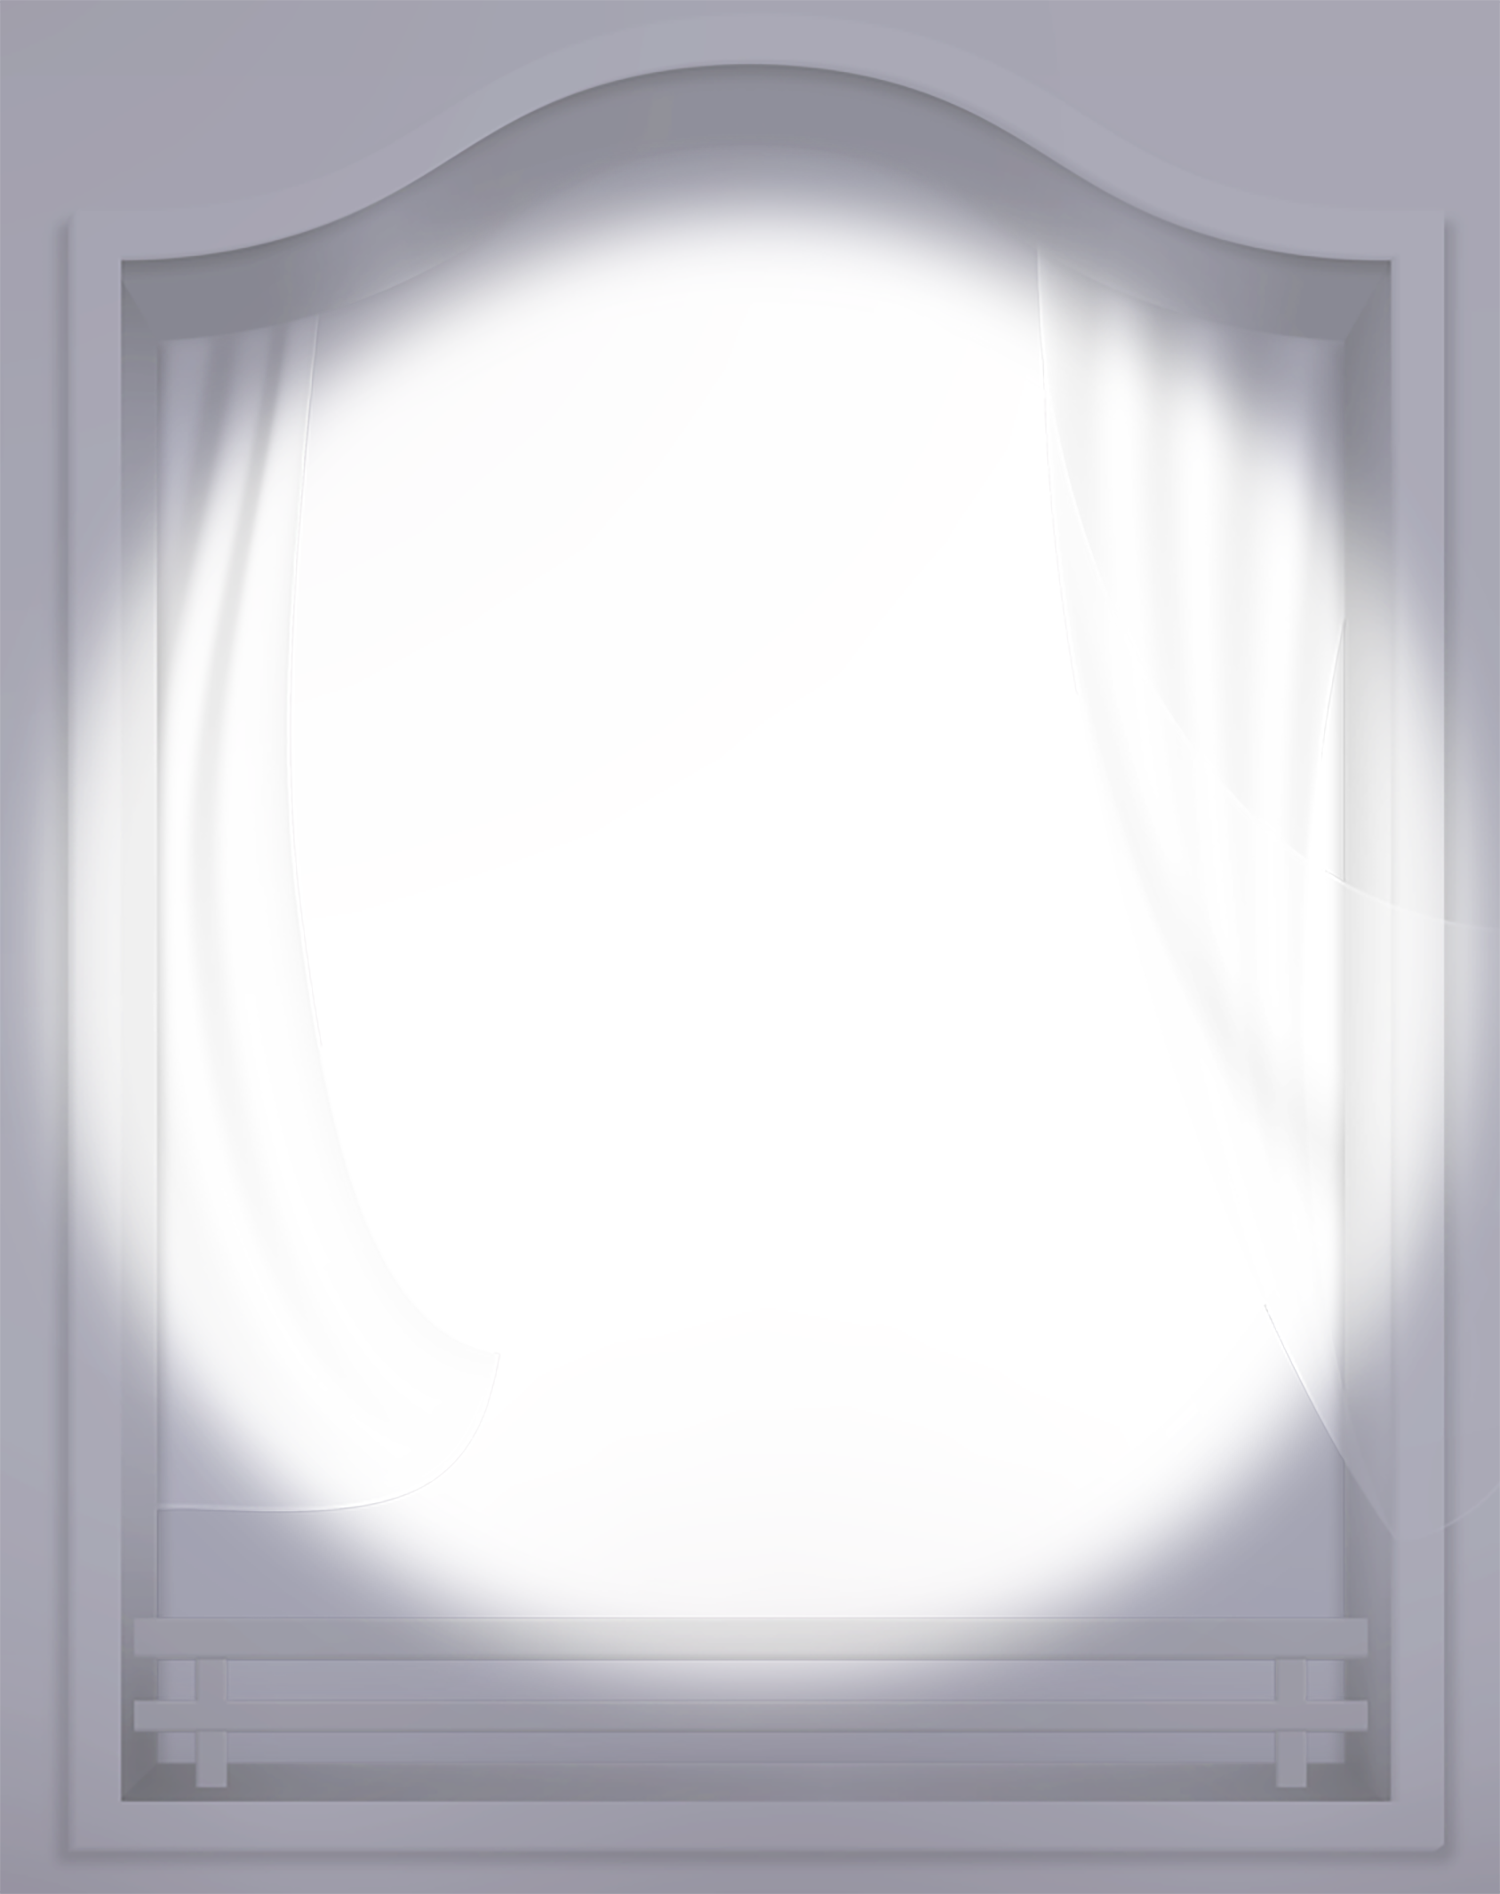
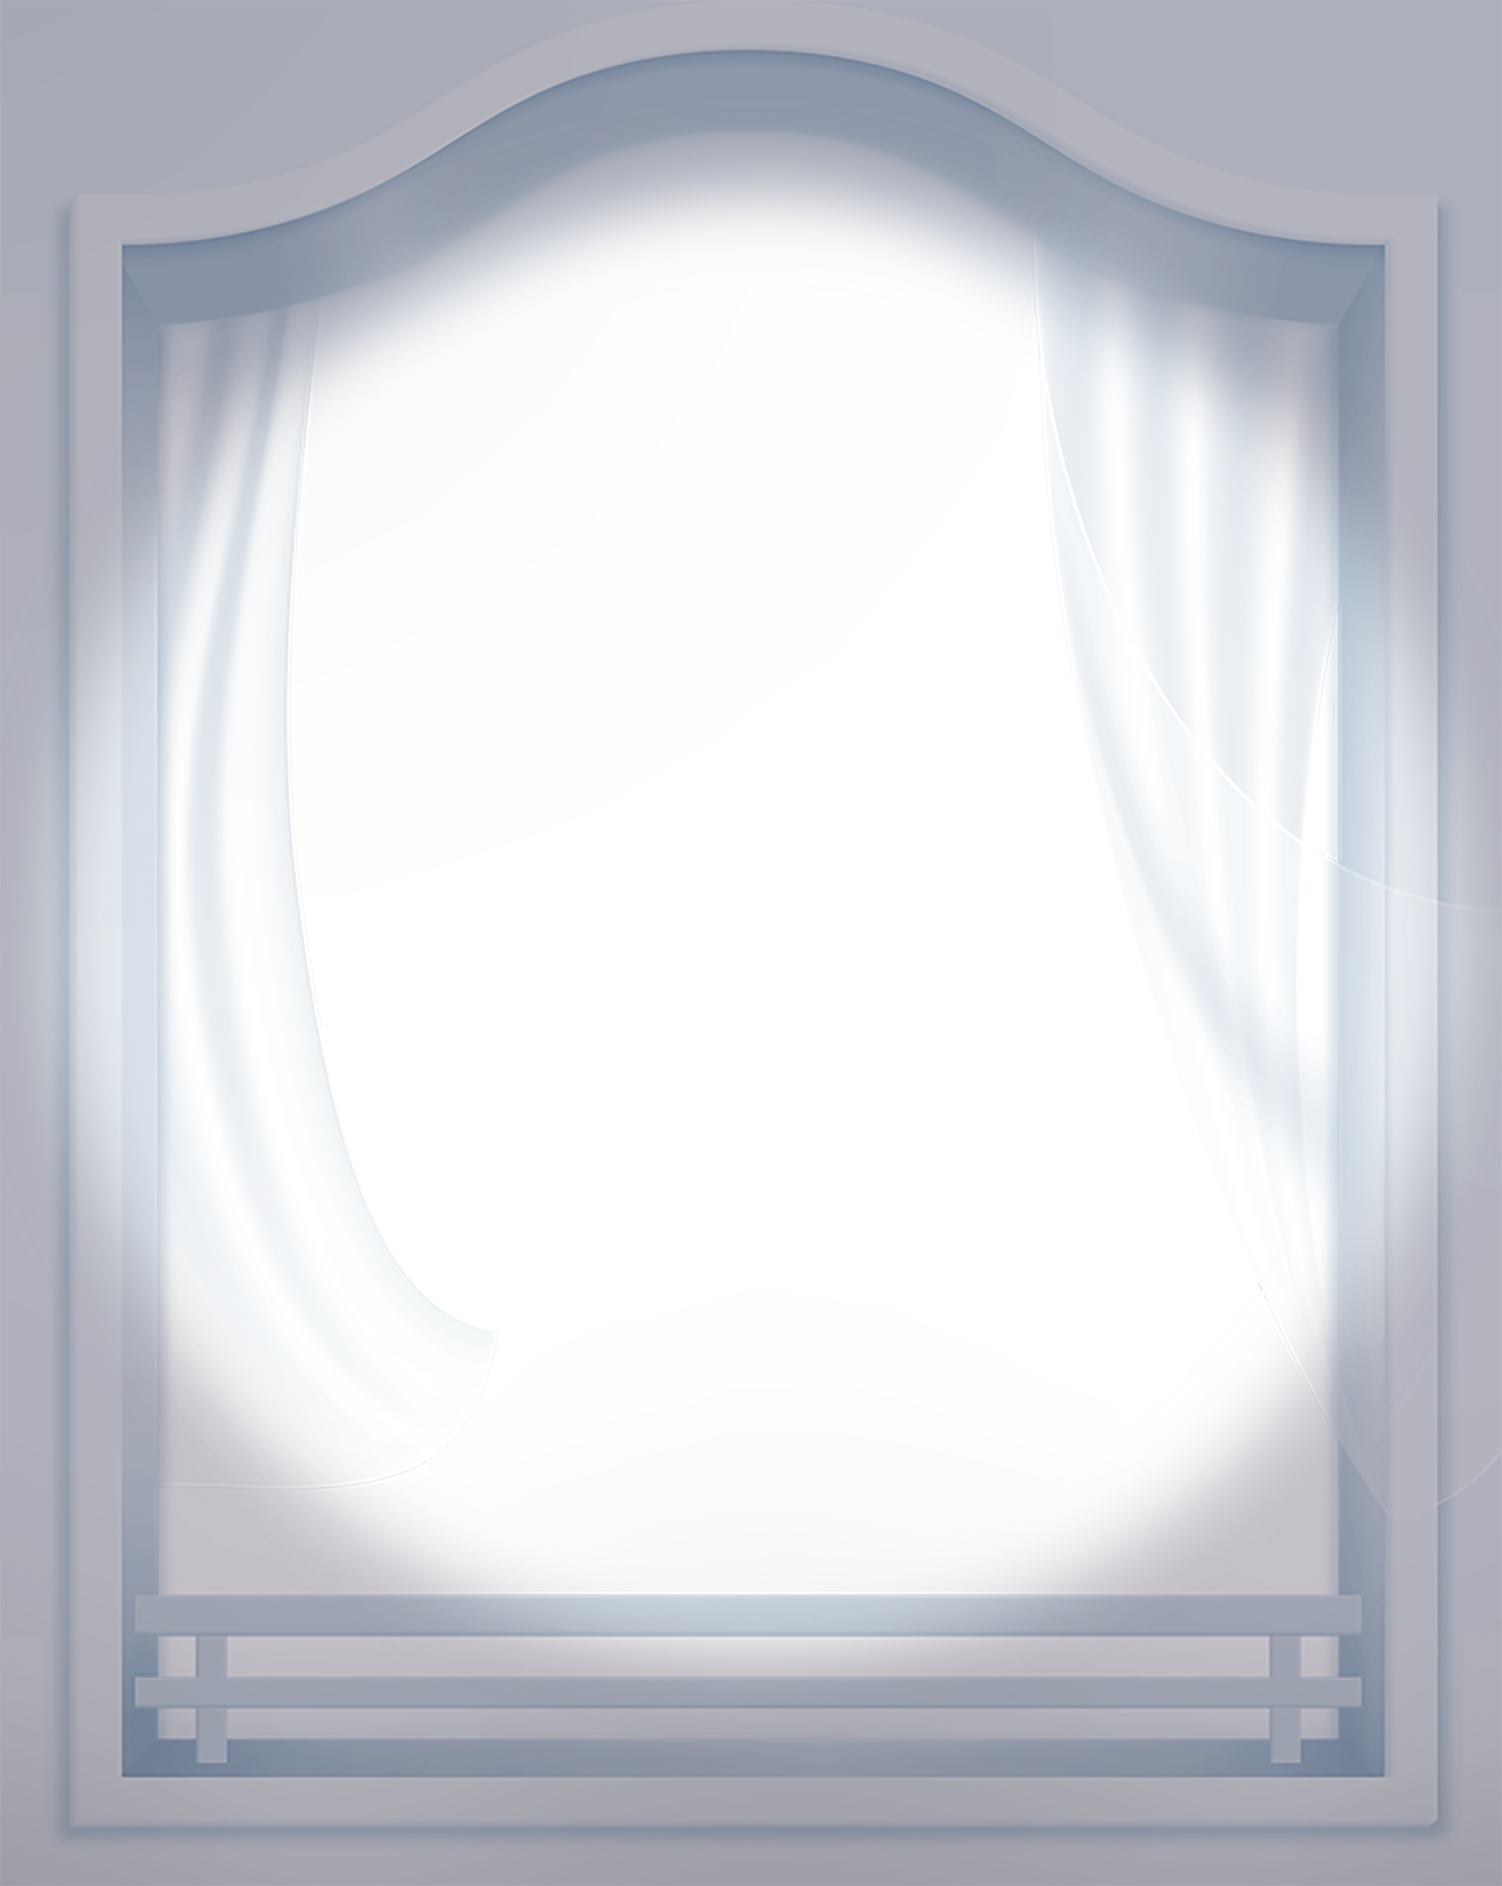
样式

diff --git a/src/pages/Home/components/create/index.js b/src/pages/Home/components/create/index.js
@@ -1,16 +1,44 @@
-import React from 'react';
+import React, { useState, useEffect } from 'react';
 import './index.scss';
-import topHui from '../../../../static/images/top_hui.png'
+
 import titleHui from '../../../../static/images/title_hui.png'
-import mainHui from '../../../../static/images/main_hui.png'
+import logo from '../../../../static/images/logo.png'
 
 import backImg from '../../../../static/images/back_icon.png'
 import sureImg from '../../../../static/images/sure_icon.png'
+
+import topHui from '../../../../static/images/top_hui.png'
+import topHei from '../../../../static/images/top_hei.png'
+import topHong from '../../../../static/images/top_hong.png'
+import topLan from '../../../../static/images/top_lan.png'
+
+import mainHui from '../../../../static/images/main_hui.png'
+import mainHei from '../../../../static/images/main_hei.png'
+import mainHong from '../../../../static/images/main_hong.png'
+import mainLan from '../../../../static/images/main_lan.png'
 
 import lanImg from '../../../../static/images/sticker_lan.png'
 import huiImg from '../../../../static/images/sticker_hui.png'
 import hongImg from '../../../../static/images/sticker_hong.png'
 import heiImg from '../../../../static/images/sticker_hei.png'
+
+import footerHei from '../../../../static/images/footer_hei.png'
+import footerHui from '../../../../static/images/footer_hui.png'
+import footerLan from '../../../../static/images/footer_lan.png'
+import footerHong from '../../../../static/images/footer_hong.png'
+
+const footer_hei = {
+    background: `url(${footerHei}) no-repeat`,
+};
+const footer_hui = {
+    background: `url(${footerHui}) no-repeat`,
+};
+const footer_lan = {
+    background: `url(${footerLan}) no-repeat`,
+};
+const footer_hong = {
+    background: `url(${footerHong}) no-repeat`,
+};
 
 
 const Create = (props) => {
@@ -33,46 +61,76 @@ const Create = (props) => {
             img:heiImg
         }
     ]
+
+    const [active, setActive] = useState(1);
+    const [avatar, setAvatar] = useState('');
+    const [isShow, setShow] = useState(true)
+
+    //展示主页或创建样式
+    useEffect(() => {
+        setShow(true)
+    }, []);
+
+    const changeSticker = (val) =>{
+        setActive(val.key)
+    }
+
+    //返回选择
+    const back = () =>{
+        if(avatar){
+            setAvatar('')
+        }else{
+            setActive(1)
+        }
+    }
+
     return (
-        <div className="create_box">
-            <div className="top_box">
-                <img  className="top_bg" src={topHui}></img>
-                <img  className="top_title" src={titleHui}></img>
-            </div>
-            <div className="main_box">
-                <img className="main_kuang" src={mainHui}></img>
-                <div className="add_avatar">
-                    <span className="add_icon">+</span>
-                    <span>添加照片</span>
+        <div className="create_box" style={{background: active == 1 ? 'linear-gradient(-55deg, #9DB6CF, #8AA2BD)' : active == 2 ? 'linear-gradient(-55deg, #A2A2AB, #C7C8D3)' :active == 3 ? 'linear-gradient(-55deg, #F0BCC0, #F2B8BD)' :'linear-gradient(-55deg, #9B9BA7, #BBB9C7);'}}>
+            <div className={isShow ? 'has_padding':''}>
+                <div className="top_box">
+                    <img  className="top_bg" src={active == 1 ? topLan : active == 2 ? topHui :active == 3 ? topHong :topHei}></img>
+                    <img  className="top_title" src={titleHui}></img>
                 </div>
-                {/* <img className="avatar_view" src={titleHui}></img> */}
-            </div>
-            <div className="footer_box">
-                <div className="footer_info">
-                    <span><img src={mainHui}></img></span>
-                    <span>|</span>
-                    <span>生活需要仪式感</span>
-                    <span>|</span>
-                    <span>2021</span>
-                </div>
-                <div className="footer_desc">sdsdsdsds</div>
-            </div>
-            <div className='sticker_box'>
-                <div className='sticker_header'>
-                    <img src={backImg}></img>
-                    <span>贴纸</span>
-                    <img src={sureImg}></img>
-                </div>
-                <div className="sticker_list">
-                {
-                    stickerList.map((item,index)=>(
-                        <div key={index} className="sticker_item">
-                            <img src={item.img}></img>
+                <div className="main_box">
+                    <img className="main_kuang" src={active == 1 ? mainLan : active == 2 ? mainHui :active == 3 ? mainHong :mainHei}></img>
+                    {
+                        avatar ? <img className="avatar_view" src={avatar}></img> :
+                        <div className="add_avatar" style={{background: active == 1 ? '#8499B0' : active == 2 ? '#AEB1BC' :active == 3 ? '#D99FA6' :'#A9A7B4'}}>
+                            <span className="add_icon">+</span>
+                            <span>添加照片</span>
                         </div>
-                    ))
-                }
+                    }
+                </div>
+                <div className="footer_box" style={active == 1 ? footer_lan : active == 2 ? footer_hui :active == 3 ? footer_hong :footer_hei}>
+                    <div className="footer_info">
+                        <span><img src={logo}></img></span>
+                        <span>|</span>
+                        <span>生活需要仪式感</span>
+                        <span>|</span>
+                        <span>2021</span>
+                    </div>
+                    {/* <div className="footer_desc">版权</div> */}
                 </div>
             </div>
+            {
+                isShow ? 
+                <div className='sticker_box'>
+                    <div className='sticker_header'>
+                        <img src={backImg} onClick={back}></img>
+                        <span>贴纸</span>
+                        <img src={sureImg}></img>
+                    </div>
+                    <div className="sticker_list">
+                    {
+                        stickerList.map((item,index)=>(
+                            <div key={index} className="sticker_item" onClick={()=>changeSticker(item)}>
+                                <img src={item.img}></img>
+                            </div>
+                        ))
+                    }
+                    </div>
+                </div> : null
+            }
         </div>
     )
 }

diff --git a/src/pages/Home/components/create/index.scss b/src/pages/Home/components/create/index.scss
@@ -1,7 +1,13 @@
 .create_box{
     width: 100%;
     position: relative;
-    background: linear-gradient(-55deg, #A2A2AB, #C7C8D3);
+    // background: linear-gradient(-55deg, #A2A2AB, #C7C8D3);
+}
+.has_padding{
+    width: 6.57rem;
+    margin: 0 auto;
+    padding: 0.2rem 0;
+    border-radius: 0.5rem;
 }
 .top_box{
     width: 100%;
@@ -16,8 +22,9 @@
     width: 6.33rem;
     height: 1.29rem;
     position: absolute;
-    top:1.73rem;
-    left:0.63rem;
+    top:1.53rem;
+    left:50%;
+    transform: translateX(-50%);
 }
 .main_box{
     width: 100%;
@@ -34,9 +41,7 @@
     height: 0.88rem;
     // line-height: 0.88rem;
     color: #fff;
-    background: #A9A7B4;
     text-align: center;
-    border: 1px solid #fff;
     display: flex;
     align-items: center;
     justify-content: center;
@@ -70,15 +75,17 @@
     font-family: Microsoft YaHei;
     font-weight: 400;
     color: #fff;
+    // background: url(../../../../static/images/footer_hei.png) no-repeat;
+    // background-size: 100%;
     .footer_info{
         display: flex;
         align-items: center;
         justify-content: space-around;
-        margin:0.43rem 0;
+        padding:0.43rem 0;
     }
     img{
-        width: 1.2rem;
-        height: 0.4rem;
+        width: 1.3rem;
+        height: 0.3rem;
     }
     span{
         display: inline-block;
@@ -86,7 +93,7 @@
     .footer_desc{
         width: 100%;
         text-align: center;
-        margin-bottom: 0.43rem;
+        padding-bottom: 0.43rem;
     }
 }
 
